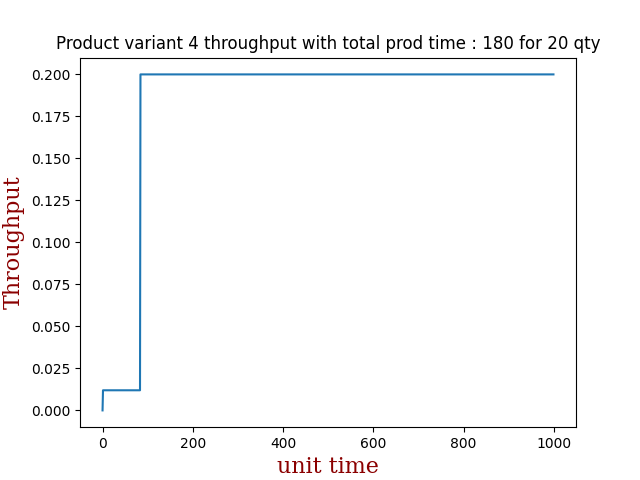
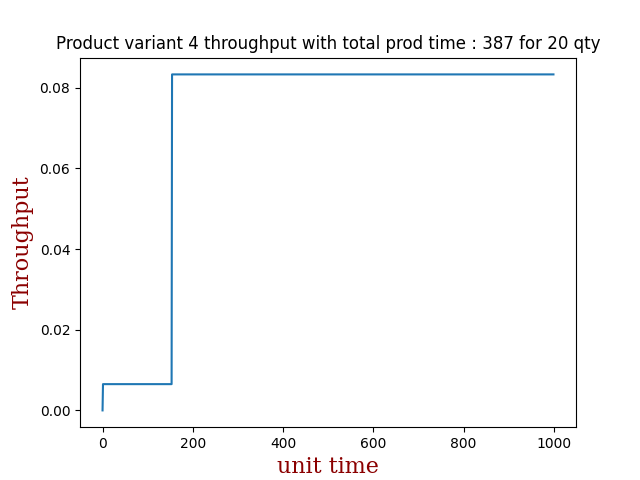
Variable process times for product variants

diff --git a/production_performance.py b/production_performance.py
@@ -8,7 +8,7 @@ from matplotlib import pyplot as plt
 from shapely.geometry import MultiLineString, LineString
 from itertools import combinations
 
-
+Batch_process_times = [5, 8, 10, 12, 7, 9, 13]
 def euclidean_dist(x1, y1, x2, y2):
     dist = math.sqrt(math.pow(x2 - x1, 2) + math.pow(y2 - y1, 2) * 1.0)
     return round(dist)
@@ -118,14 +118,15 @@ def prod_efficiency(Batch_sequence, pos, Qty, len_graph):
         num_crossings.append(c)
     print("no of crossings", num_crossings)
     vel_transport = 2  # speed of the transport robot
-    process_time = 5  ## uniform process time required by workstations
+    #process_time = 5  ## uniform process time required by workstations
 
     PI_arr_pt = []
     PI_arr_thr = []
     PI_arr_1sTime = []
     PI_arr_idealT = []
     throughput = []
-    for i, (seq, gLen, qty, cross) in enumerate(zip(Batch_sequence, len_graph, Qty, num_crossings)):
+    ## Find throughput for individual product variants
+    for i, (seq, gLen, qty, cross,process_time) in enumerate(zip(Batch_sequence, len_graph, Qty, num_crossings,Batch_process_times)):
         num_workstations = len(seq)
         dist_lastedge = euclidean_dist(pos[seq[-2]][0], pos[seq[-2]][1], pos[seq[-1]][0], pos[seq[-1]][1])
         ct_1st_ptime = (num_workstations * process_time) + (
@@ -147,7 +148,7 @@ def prod_efficiency(Batch_sequence, pos, Qty, len_graph):
     print("production ideal time array", PI_arr_idealT)
 
     ### Plot the cumulative graph with coinciding the
-    prod_span = 1600
+    prod_span = 3000
 
     # for i in range(len(cumulative_throughput)):
     #     cumulative_throughput[i] = random.randint(1,35)
@@ -160,21 +161,21 @@ def prod_efficiency(Batch_sequence, pos, Qty, len_graph):
     offset = 1
     for i in range(len(Batch_sequence)):
         cumulative_throughput = np.zeros(prod_span)
-
+        process_time = Batch_process_times
         if i == 0:
             offset += 0
         else:
-
-            coeff_pTime = PI_arr_idealT[i - 1] / process_time
+            coeff_pTime = PI_arr_idealT[i - 1] / process_time[i-1]
             #print("the calculated coeff prodcut", i+1, coeff_pTime)
             actual_processtime = float(PI_arr_pt[i - 1]) / coeff_pTime
+            #print(f'previous process time is {process_time[i-1]}')
             print(f"the actual process time of product {i+1} is {coeff_pTime}")
             offset += round(Qty[i - 1] * actual_processtime)
             # print(f"Start time of previous product was {PI_arr_pt[i-1]} product and time to produce 1st sample of current product {PI_arr_1sTime[i]}")
-        print("product with start and stop index", i + 1, offset, PI_arr_pt[i] + offset)
+        print(f"product {i+1} with start {offset} and stop {PI_arr_pt[i] + offset} index")
 
         cumulative_throughput[offset:PI_arr_pt[i] + offset] = PI_arr_thr[i]  # [1:PI_arr_pt[i]]
-        plt.plot(prod_steps, cumulative_throughput, color=colors[i], label=f'Product {i + 1}')
+        plt.plot(prod_steps, cumulative_throughput, color=colors[i], label=f'P {i + 1} qty {Qty[i]} cy_Time {process_time[i]}')
         # plt.pause(0.05)
 
     # Naming the x-axis, y-axis and the whole graph
